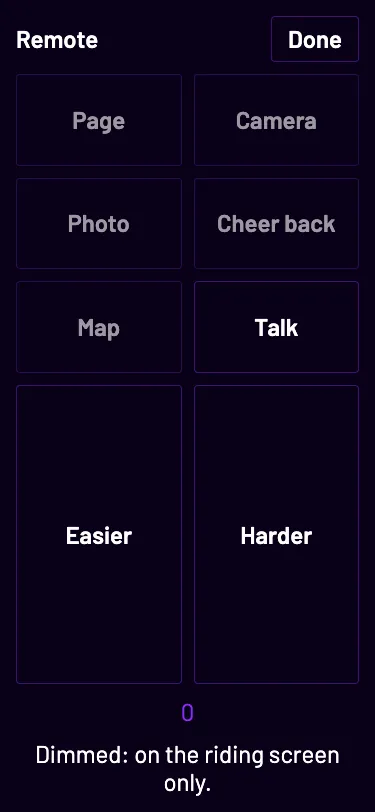
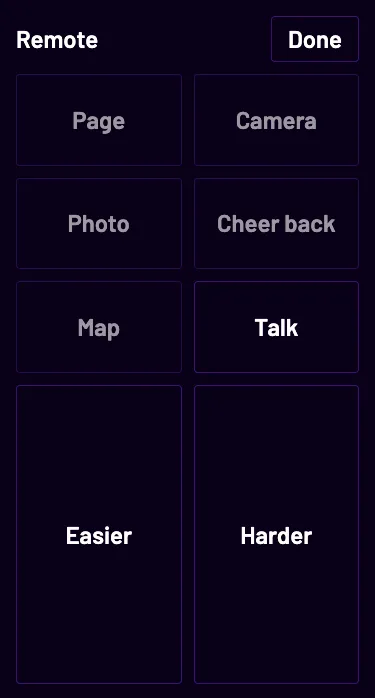
fix(web): the landing's shots show what their rows say

diff --git a/web/src/routes/(site)/+page.svelte b/web/src/routes/(site)/+page.svelte
@@ -42,7 +42,7 @@
 		{
 			n: '2',
 			title: 'Join voice, pair your trainer',
-			body: 'Chrome or Edge talks to your smart trainer over Bluetooth, or use the desktop app. Voice is one tap and the camera is up to you.',
+			body: 'Chrome or Edge talks to your smart trainer over Bluetooth, or use the desktop app. Voice is one tap, and the crew’s jukebox plays in sync and ducks when someone speaks.',
 		},
 		{
 			n: '3',
@@ -64,15 +64,15 @@
 			screen: 'workout-flat',
 			eyebrow: 'Or on the graph',
 			title: 'Without a road, the workout is the picture',
-			body: 'Every block on the interval graph is labelled, your watts trace across it, and the panel above holds the target. Fill the shelf from the library, the editor, or the .zwo and .erg files you already have.',
-			alt: 'A workout ridden without a road: the interval graph with labelled blocks, the rider’s trace, and the watts and target in the panels above',
+			body: 'Every block on the interval graph is labelled with its watts and length, and the panel above holds your target. Fill the shelf from the library, the editor, or the .zwo and .erg files you already have.',
+			alt: 'A workout ridden without a road: the interval graph with each block labelled with its watts and length, and the watts and target in the panel above',
 		},
 		{
 			screen: 'world-ghost',
 			eyebrow: 'Your ghost',
 			title: 'Ride a road again and race your earlier self',
-			body: 'Start a road of yours from the beginning and the rider you were last time rides beside you, a see-through figure in your own kit. The bike computer says the gap in words: “12 s ahead”.',
-			alt: 'A free ride on a mountain road in the 3D world: the rider’s ghost from an earlier ride up the road ahead, and Easier and Harder for the gears in the panel above',
+			body: 'Start a road of yours from the beginning and the rider you were last time rides beside you, a see-through figure in your own kit. The bike computer says the gap in words: “4 s behind”.',
+			alt: 'A free ride on a mountain road in the 3D world: the rider’s ghost from an earlier ride just ahead, the bike computer reading 4 s behind, and Easier and Harder in the panel above',
 		},
 	];
 
@@ -218,9 +218,9 @@
 	/>
 	<Screen
 		name="phone-remote"
-		alt="A phone as the rider’s remote while the desk rides: big Easier and Harder buttons with the gear under them, and buttons to turn the bike computer’s page, cheer back and talk"
+		alt="A phone as the rider’s remote while the desk rides: big Easier and Harder buttons, and buttons to turn the bike computer’s page, cheer back and talk"
 		width={375}
-		height={812}
+		height={698}
 		narrow
 	/>
 </section>
@@ -231,7 +231,6 @@
 		center
 		eyebrow="Sessions with voice"
 		title="From group chat to group ride in three steps"
-		lede="The crew’s jukebox plays in sync for everyone in the voice channel and ducks when someone speaks."
 	/>
 	<ol class="mt-10 grid gap-4 md:grid-cols-3">
 		{#each steps as step (step.n)}
@@ -255,7 +254,7 @@
 		title="Race your roads, or play on watts alone"
 		lede="Pick a road in the session picker, tap Race it, and choose Race, Last Light or Wheelrace: a race on W/kg, with results by category on the closing card. Or play one of seven games scaled to each rider’s FTP, so the smallest engine in the crew can win Backyard Ramp."
 	/>
-	<div class="mt-10 grid gap-8 lg:grid-cols-2">
+	<div class="mt-10 grid gap-3 lg:grid-cols-2">
 		<Screen
 			name="race-picker"
 			alt="The session picker with a road picked and its races offered: Race, Last Light and Wheelrace"

diff --git a/README.md b/README.md
@@ -75,7 +75,7 @@ the shelf, and a [free ramp test](https://wattroom.ch/ftp-test) finds your FTP.
 were last time rides beside you, a see-through figure in your own kit. The
 bike computer says the gap in words.
 
-<img src="web/static/screens/world-ghost.webp" alt="A free ride on a road: the rider's ghost from an earlier ride just ahead in the 3D world" />
+<img src="web/static/screens/world-ghost.webp" alt="A free ride on a road: the rider's ghost from an earlier ride just ahead in the 3D world, the bike computer reading 4 s behind" />
 
 </td>
 <td width="50%" valign="top">
@@ -84,7 +84,7 @@ bike computer says the gap in words.
 from the screen, the `−` and `+` keys or a Zwift Cog. Open WattRoom on your
 phone while the desk rides and the phone becomes your remote.
 
-<p align="center"><img src="web/static/screens/phone-remote.webp" alt="A phone as the rider's remote while the desk rides: big Easier and Harder buttons with the gear under them" width="220" /></p>
+<p align="center"><img src="web/static/screens/phone-remote.webp" alt="A phone as the rider's remote while the desk rides: big Easier and Harder buttons" width="220" /></p>
 
 </td>
 </tr>
